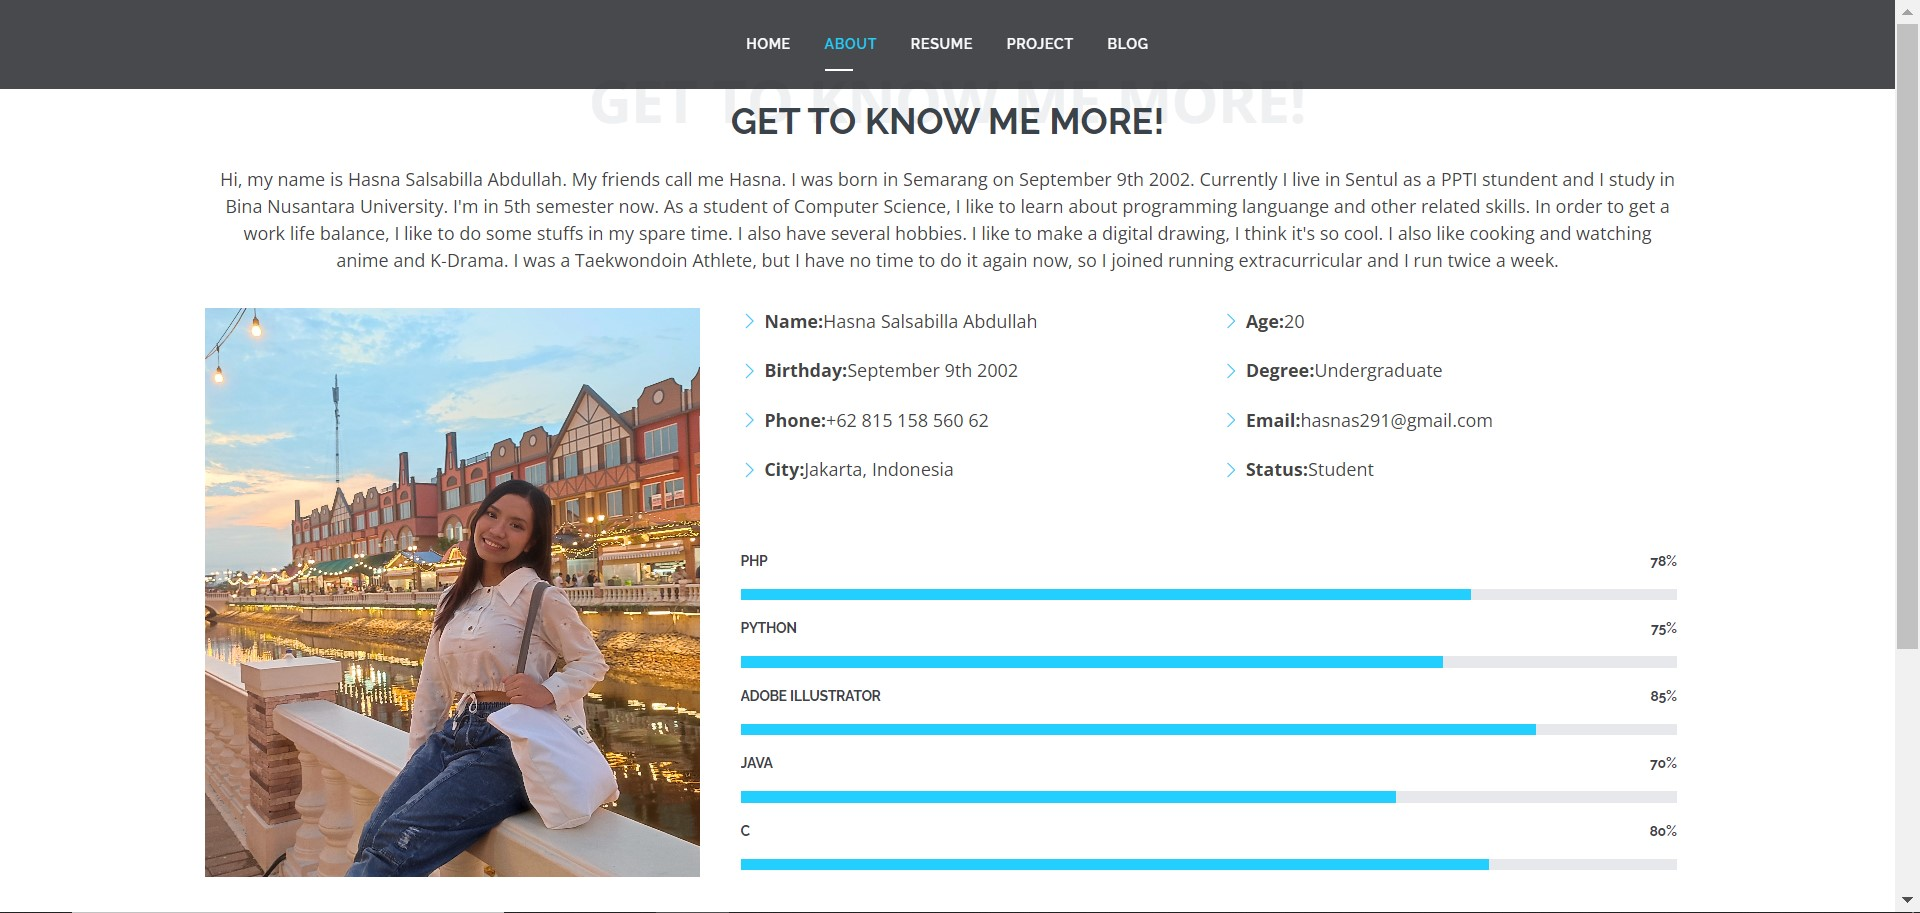
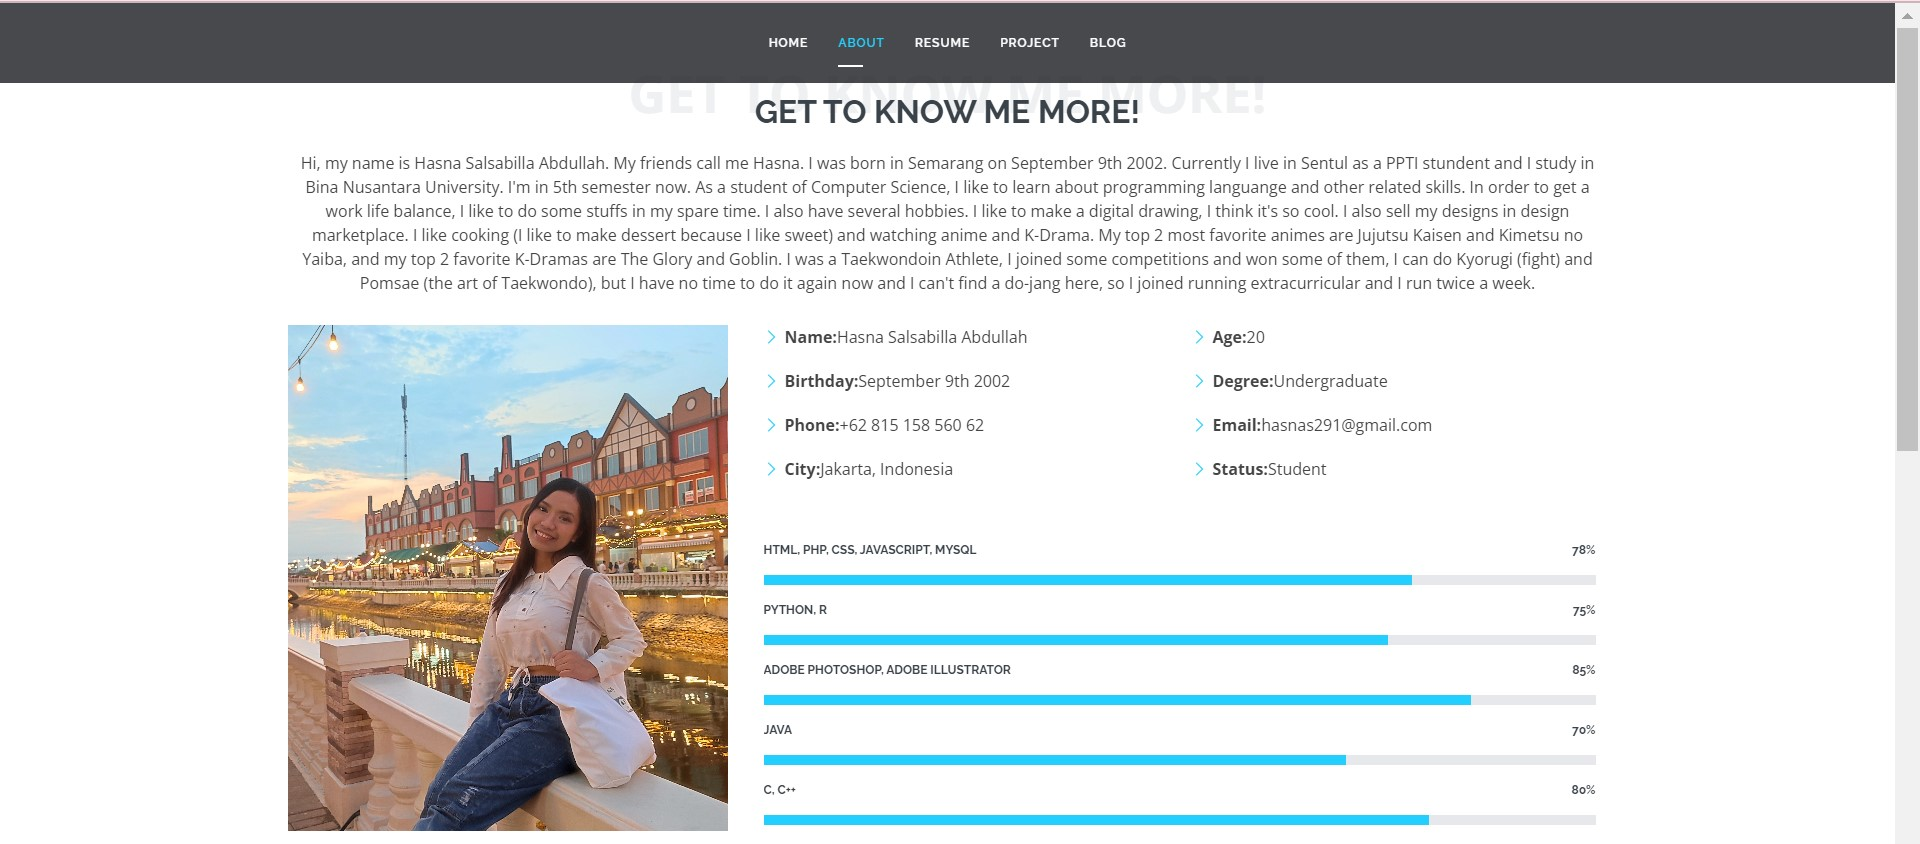
aboutme-rev

diff --git a/resources/views/about.blade.php b/resources/views/about.blade.php
@@ -50,8 +50,9 @@
             Currently I live in Sentul as a PPTI stundent and I study in Bina Nusantara University. I'm in 5th semester now.
             As a student of Computer Science, I like to learn about programming languange and other related skills.
             In order to get a work life balance, I like to do some stuffs in my spare time. I also have several hobbies.
-            I like to make a digital drawing, I think it's so cool. I also like cooking and watching anime and K-Drama.
-            I was a Taekwondoin Athlete, but I have no time to do it again now, so I joined running extracurricular and I run twice a week.</p>
+            I like to make a digital drawing, I think it's so cool. I also sell my designs in design marketplace. I like cooking (I like to make dessert because I like sweet) and watching anime and K-Drama.
+            My top 2 most favorite animes are Jujutsu Kaisen and Kimetsu no Yaiba, and my top 2 favorite K-Dramas are The Glory and Goblin.
+            I was a Taekwondoin Athlete, I joined some competitions and won some of them, I can do Kyorugi (fight) and Pomsae (the art of Taekwondo), but I have no time to do it again now and I can't find a do-jang here, so I joined running extracurricular and I run twice a week.</p>
           </div>
   
           <div class="row">
@@ -80,21 +81,21 @@
   
               <div class="skills-content ps-lg-4">
                 <div class="progress">
-                  <span class="skill">PHP <i class="val">78%</i></span>
+                  <span class="skill">HTML, PHP, CSS, JavaScript, MySQL <i class="val">78%</i></span>
                   <div class="progress-bar-wrap">
                     <div class="progress-bar" role="progressbar" aria-valuenow="78" aria-valuemin="0" aria-valuemax="100"></div>
                   </div>
                 </div>
   
                 <div class="progress">
-                  <span class="skill">Python <i class="val">75%</i></span>
+                  <span class="skill">Python, R<i class="val">75%</i></span>
                   <div class="progress-bar-wrap">
                     <div class="progress-bar" role="progressbar" aria-valuenow="75" aria-valuemin="0" aria-valuemax="100"></div>
                   </div>
                 </div>
   
                 <div class="progress">
-                  <span class="skill">Adobe Illustrator <i class="val">85%</i></span>
+                  <span class="skill">Adobe Photoshop, Adobe Illustrator <i class="val">85%</i></span>
                   <div class="progress-bar-wrap">
                     <div class="progress-bar" role="progressbar" aria-valuenow="85" aria-valuemin="0" aria-valuemax="100"></div>
                   </div>
@@ -108,7 +109,7 @@
                 </div>
 
                 <div class="progress">
-                  <span class="skill">C <i class="val">80%</i></span>
+                  <span class="skill">C, C++ <i class="val">80%</i></span>
                   <div class="progress-bar-wrap">
                     <div class="progress-bar" role="progressbar" aria-valuenow="80" aria-valuemin="0" aria-valuemax="100"></div>
                   </div>
@@ -135,7 +136,10 @@
             <div class="icon-box">
               <div class="icon"><i class="bx bxl-dribbble"></i></div>
               <h4 class="title"><h3>Public Speaking</h3></h4>
-              <p class="description">I was a debater in Senior High School and I still active in debate club right now. I am able to deliver speech well and be a good master of ceremony.</p>
+              <p class="description">I was a debater in Senior High School and I still active in debate club right now.
+                I am able to deliver speech well and be a good master of ceremony.
+                I am able to speak in Indonesia and English and I'm still ini a phase of learning Korean and Japanesse languange.
+              </p>
             </div>
           </div>
 
@@ -143,7 +147,7 @@
             <div class="icon-box">
               <div class="icon"><i class="bx bx-file"></i></div>
               <h4 class="title"><h3>Team Leader</h3></h4>
-              <p class="description">I managed and be the leader of the project when I was an intern. Currently I active as a mentor in my study group since cawu 1.</p>
+              <p class="description">I managed and be the leader of the project when I was an intern. Currently I active as a mentor in my study group since cawu 1. When I was in Senior High School I was the President of the English club in my school. And I was a student council in Junior High School.</p>
             </div>
           </div>
 
